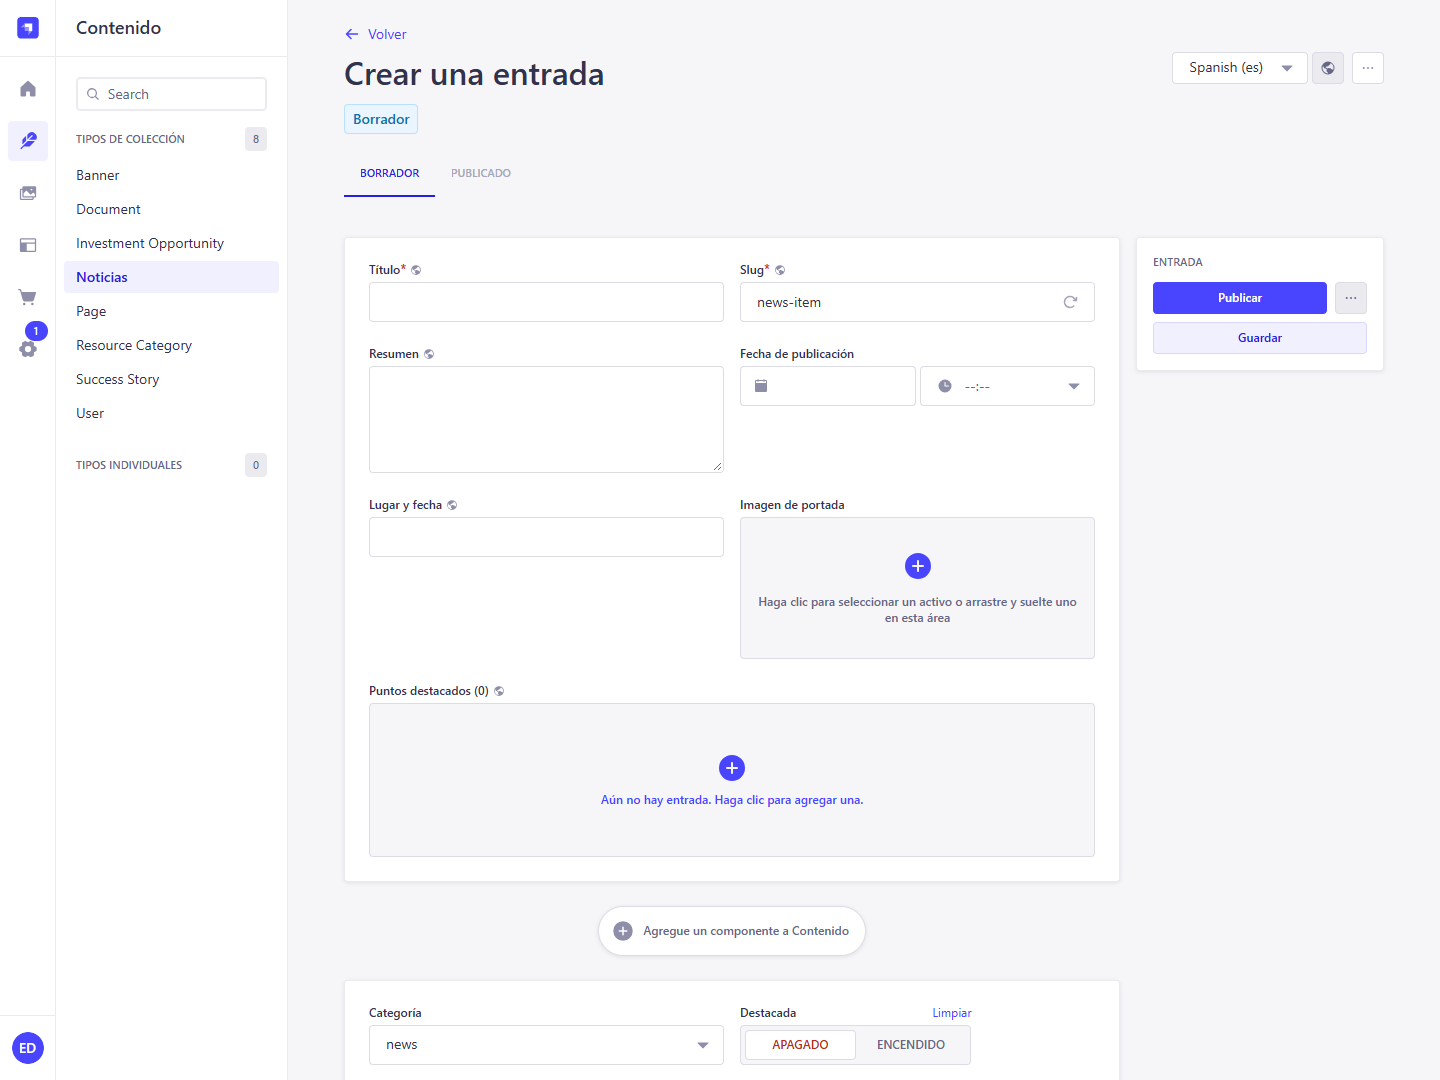
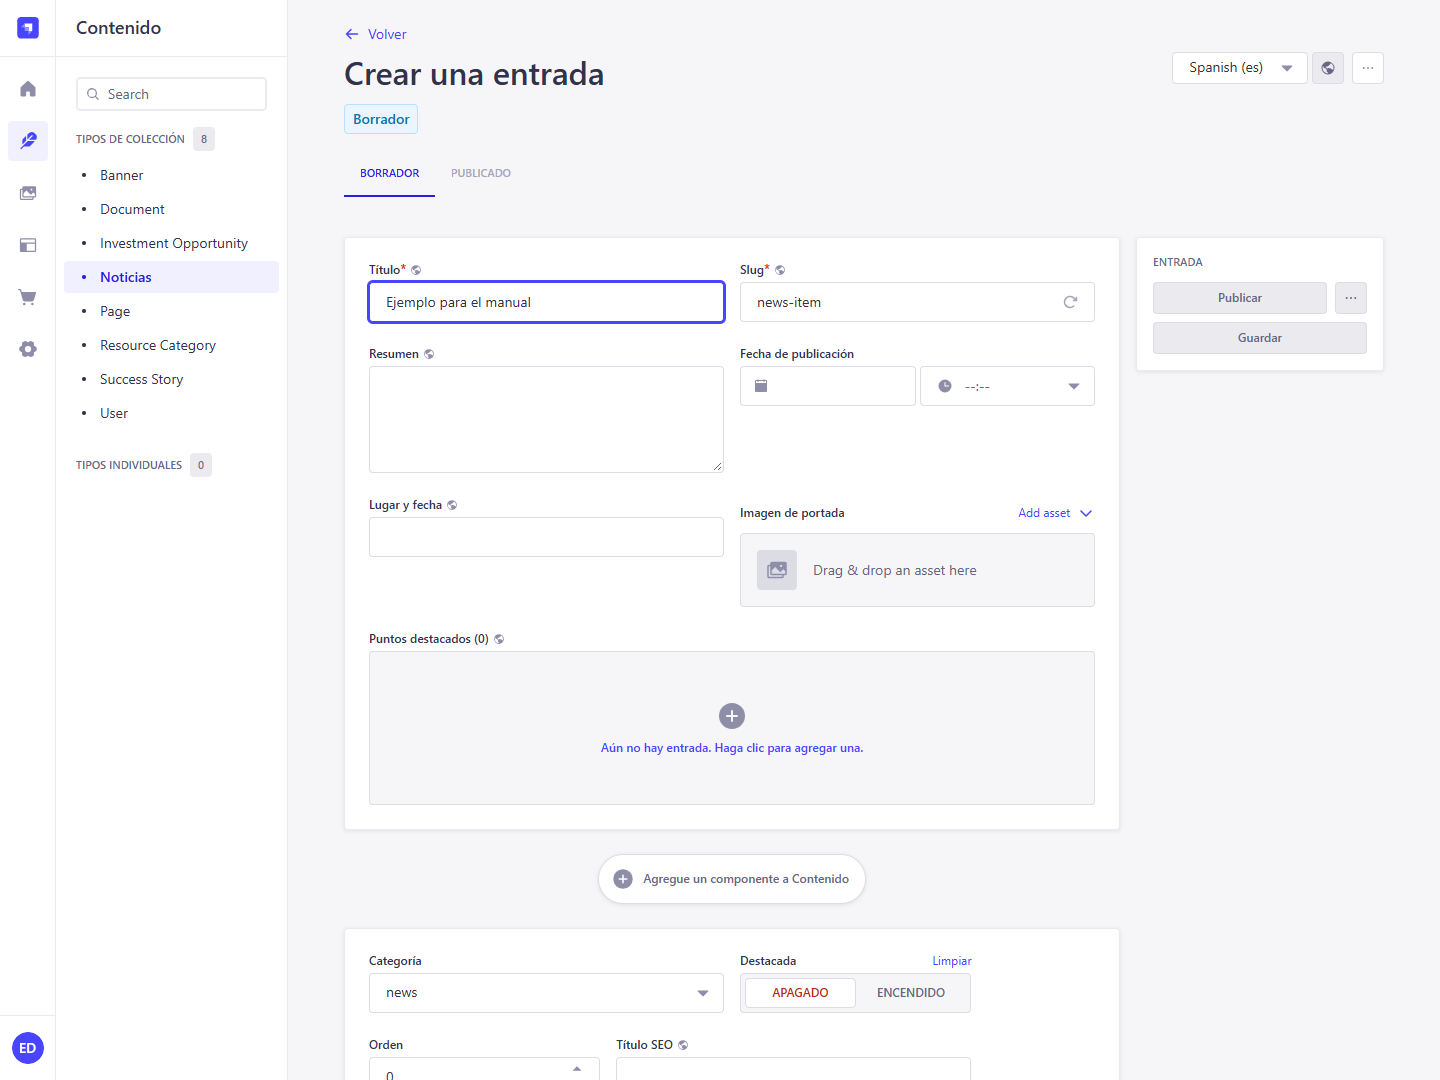
docs(editors): capture the updated Strapi admin

diff --git a/docs/manual-editores.md b/docs/manual-editores.md
@@ -2,7 +2,7 @@
 
 Entra en `https://cms.test.cni.hn/admin` para validar cambios o en `https://cms.cni.hn/admin` para editar contenido de producción. En tu perfil puedes elegir **Español** para la interfaz. Dentro del **Gestor de contenido**, el selector de idioma corresponde a la traducción de la ficha. Selecciona **ES** o **EN** antes de editar.
 
-Las capturas se tomaron con datos de ejemplo en una instancia local del CMS. Algunas etiquetas de los campos se muestran en inglés según la colección.
+Las capturas se tomaron con datos de ejemplo en Strapi 5.63. Algunas etiquetas de los campos se muestran en inglés según la colección.
 
 ## Crear una noticia
 
@@ -43,7 +43,7 @@ Las capturas se tomaron con datos de ejemplo en una instancia local del CMS. Alg
 1. En **Page**, abre la entrada existente o crea una nueva. Completa título, slug, resumen y contenido. Coordina los cambios de slug si la página ya tiene enlaces públicos.
 2. Revisa SEO y traducciones. Guarda. Usa la vista previa cuando esté disponible y verifica el contenido publicado en `/institucional/<slug>` o `/en/institutional/<slug>`.
 
-![Editor de una página institucional](assets/manual-editores/pagina.png)
+![Editor de una página institucional con los botones Publicar y Guardar](assets/manual-editores/pagina.png)
 
 ## Publicar cambios
 
